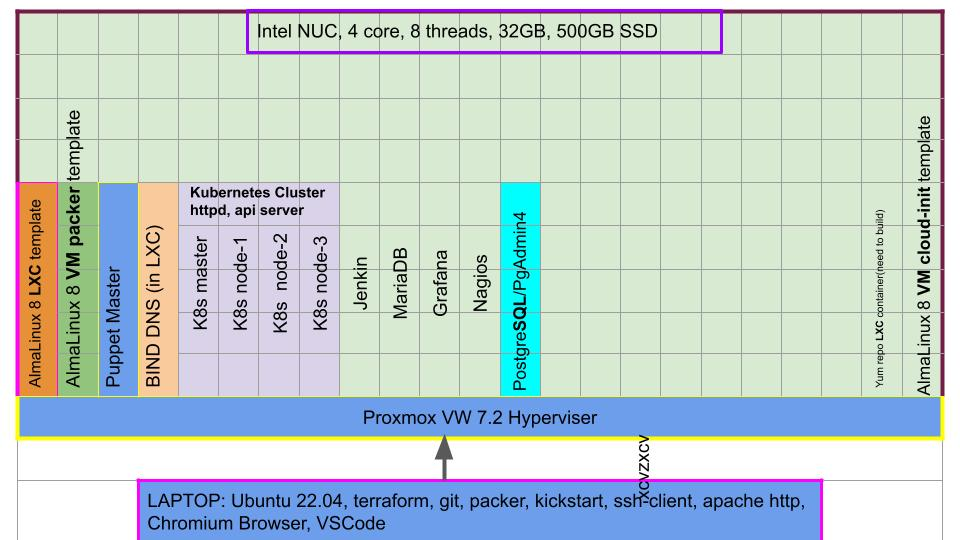
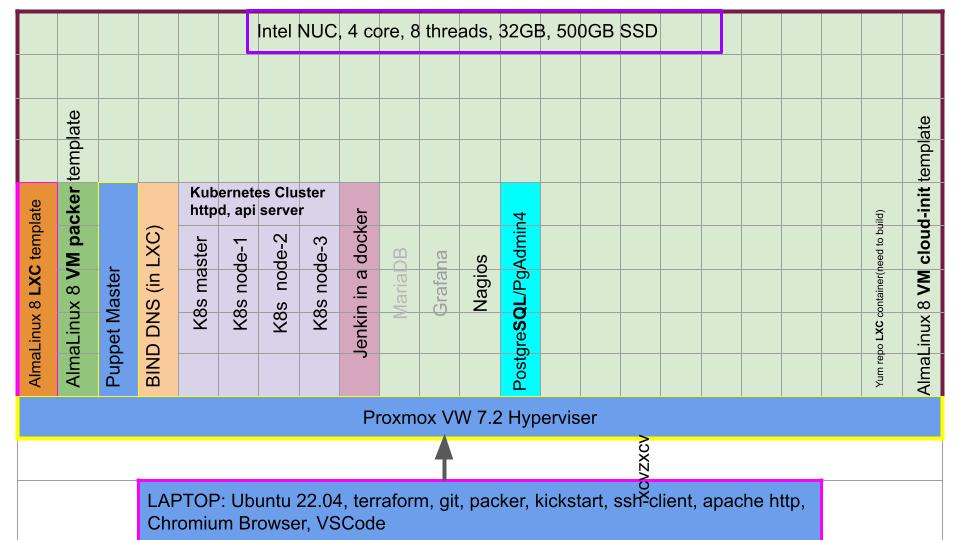
Test bed for Jenkins Pipelines

Changed region(s): [[0.3438, 0.3259, 0.4688, 0.7407]]

diff --git a/jenkins/README.md b/jenkins/README.md
@@ -1,0 +1,63 @@
+# Jenkins
+An open automation server to build, test, deploy and CI/CD. It has 1800+ community contributed plugins to achieve the tasks.
+It is one of the good examples of how a fork of the original project survived and thrived after splitting from original project Hudson when the parent company tried to take control of the project.
+
+# Install docker in VM
+Install docker in AlmaLinux 8.0 OS
+```
+dnf install -y yum-utils
+yum-config-manager --add-repo \
+https://download.docker.com/linux/centos/docker-ce.repo
+dnf install docker-ce docker-ce-cli containerd.io docker-compose-plugin
+systemctl enable docker.service
+systemctl start docker.service
+```
+
+# Run Jenkins dockers
+* Pull jenkins docker official LTS images
+* pull dind ( Docker in Docker) image. It is needed to controll a container on top of another container. It is required to run CI tools such as Jenkins on top of Docker container.
+* Create a Link Layer software bridge network to connect all containers required for a purpose to connect to separate isolated unique network
+```
+docker image pull jenkins/Jenkins:lts
+docker image pull docker:dind  
+docker network create jenkins
+```
+Start Jenkins docker container:
+* publish port 8080 of container to host 8080 port to access Jenkins web interface from a host on your network
+* publish port 50000 to connect inbound Jenkins agents that would need to interact with blueocean container
+```
+docker run  \
+    --env DOCKER_TLS_CERTDIR=/certs \
+    -p 8080:8080 \
+    -p 50000:50000 \
+    --name jenkins \
+    -v jenkins_home:/var/jenkins_home \
+    --detach \
+    jenkins/Jenkins:lts
+
+doceker ps
+```
+
+# Install maven in Jenkins container
+```
+docker exec -it -u root jenkins /bin/bash
+apt-get update && apt-installl maven -y
+```
+
+# Start/Stop Jenkins Docker
+We need to do certain change to docker container, hence stop it befor sutting down guest OS to preserve changes on next docker run. Ideally, we all changes need to be passed as environment varible while stating docker
+```
+docker stop Jenkins
+docker start Jenkins
+```
+
+# Jenkins Pipeline
+
+
+# Reference
+https://www.Jenkins.io/doc/book/installing/docker/
+https://www.jenkins.io/doc/book/pipeline/syntax/
+https://www.jenkins.io/doc/pipeline/steps/workflow-basic-steps/
+
+# Credit
+Warp 9 Training

diff --git a/README.md b/README.md
@@ -268,11 +268,16 @@ Reference document [here](https://opensource.com/article/17/4/build-your-own-nam
 Terraform will provision a master and 2 nodes using configuration [here](./terraform/kubernetes/)
 TODO: certificate creation and node join
 
+# PostgreSQL
+**DIR/FILE:** ./terraform/postgres/
+Run basic PostgreSQL create test DB and run commands via PgAdmin4
+
 # MySQL
 TODO
 
 # Jenkins
-TODO
+**DIR/FILE:** ./jenkins
+Run Jenkins in an docker image in a VM running AlmaLinux.
 
 # Final Section
 ## References
